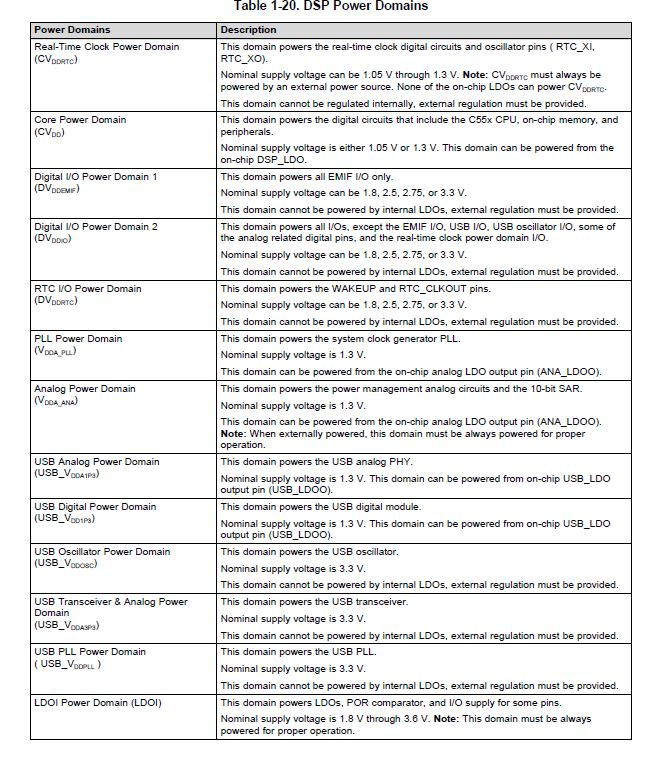
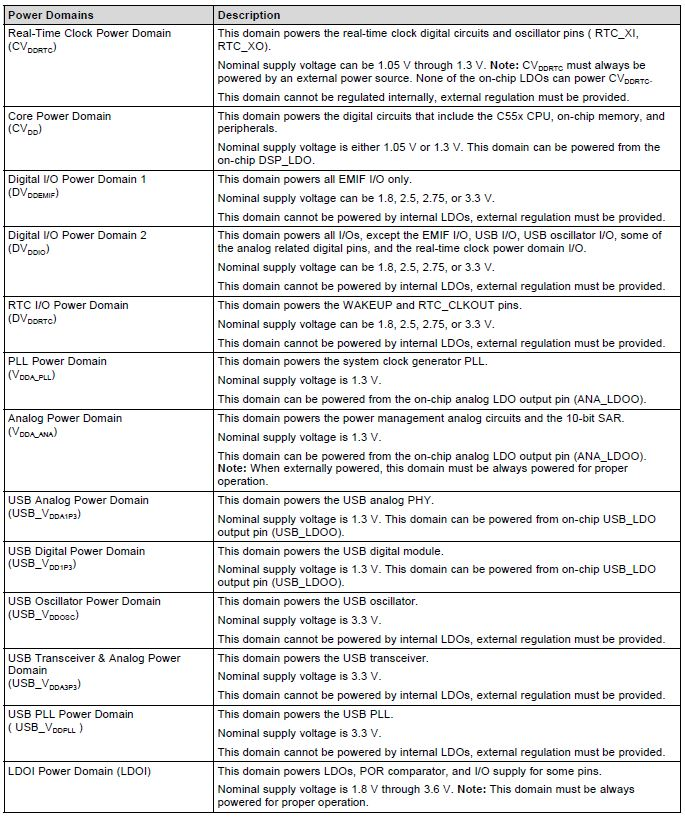
More citations

diff --git a/chapter5.tex b/chapter5.tex
@@ -8,7 +8,7 @@ Reducing power consumption only saves energy if the time required to accomplish 
 task does not increase too much.The chapter presents the sources of power dissipation and describes the important low-power methodologies and power optimization techniques available. Low-power design can be applied on various abstracted levels, such as system level, architectural level and technological level. This chapter could as well be utilized as a quick review on low power design. 
 
 \section{Sources of power consumption}\label{src_pwr}
-Most components are currently fabricated using CMOS technology. Main reason for this bias is that CMOS technology is cost efficient and inherently lower power than other technologies. So the sources of power consumption talked in this chapter is based on CMOS component model. There are a number of sources of power consumption in CMOS, which can be subdivided into \textit{static} and \textit{dynamic} power dissipation. The main difference between them is that dynamic power is frequency dependent, while static is not. Dynamic power dissipation is primarily caused by the switching of the CMOS devices (MOSFETs) when logic values are changed (known as \textit{capacitive power} or \textit{switching power}). The amount of power that is dissipated is directly related to the switching activity (which is the number of logic transitions per clock cycle in the entire circuit), the clock frequency, the supply voltage, and the capacitive load the circuit drives \cite{PowerAwareDesign}. Another source of dynamic power dissipation is \textit{short-circuit power}. CMOS is comprised of both PMOS and NMOS devices. During a logic transition, the PMOS and NMOS devices are simultaneously turned on for a very short period of time, allowing a short-circuit current to run from V\textsubscript{dd} to ground\cite{Low-powercmos,LowPowerDesign}. This behavior is inherent to CMOS switching.The more dominant component of dynamic power is capacitive power. This component is the result of charging and discharging parasitic capacitances in the circuit. Every time a capacitive node switches from ground to V\textsubscript{dd} an vice-versa energy is consumed. 
+Most components are currently fabricated using CMOS technology\cite{cypress,silicon}. Main reason for this bias is that CMOS technology is cost efficient and inherently lower power than other technologies. So the sources of power consumption talked in this chapter is based on CMOS component model. There are a number of sources of power consumption in CMOS, which can be subdivided into \textit{static} and \textit{dynamic} power dissipation. The main difference between them is that dynamic power is frequency dependent, while static is not. Dynamic power dissipation is primarily caused by the switching of the CMOS devices (MOSFETs) when logic values are changed (known as \textit{capacitive power} or \textit{switching power}). The amount of power that is dissipated is directly related to the switching activity (which is the number of logic transitions per clock cycle in the entire circuit), the clock frequency, the supply voltage, and the capacitive load the circuit drives \cite{PowerAwareDesign}. Another source of dynamic power dissipation is \textit{short-circuit power}. CMOS is comprised of both PMOS and NMOS devices. During a logic transition, the PMOS and NMOS devices are simultaneously turned on for a very short period of time, allowing a short-circuit current to run from V\textsubscript{dd} to ground\cite{Low-powercmos,LowPowerDesign}. This behavior is inherent to CMOS switching.The more dominant component of dynamic power is capacitive power. This component is the result of charging and discharging parasitic capacitances in the circuit. Every time a capacitive node switches from ground to V\textsubscript{dd} an vice-versa energy is consumed. 
 
 Static power, which is a constant factor and has nothing to do with the switching activity, is caused by \textit{leakage power}. In an ideal situation, a static CMOS circuit (i.e. one that does not switch) does not consume any power because there is no direct path from V\textsubscript{dd} to 
 ground. In real life there will always be leakage currents, since CMOS devices are not 
@@ -114,7 +114,7 @@ V\textsubscript{DD} in order to save power. Even though delay is increasing, the
  \section{Design flow}
  
  Design flow of any system constitutes of various level of abstraction. Abstraction reduces complexity  and allow efficient design and implementation of complex systems.The aspect of the system that needs to be optimized helps in designing the various levels of abstraction. When a system is designed with the emphasis on power optimization , then the design must embody optimization at all levels of the design flow. In general the support for energy management needs to be incorporated at the system level and the architectural level. An important aspect of the design flow is the relation and feedback between the levels. Paul J.M Havinga et. al, 
- have come up with three layers of abstraction: system, architecture and technology \cite{}. Figure \ref{fig:quote} describes the abstraction level and related examples for energy reduction.
+ have come up with three layers of abstraction: system, architecture and technology \cite{havinga,havinga2,havinga3}. Figure \ref{fig:quote} describes the abstraction level and related examples for energy reduction.
  \begin{table}
  	\centering
  	\begin{tabular}{|l|l|}
@@ -136,7 +136,7 @@ V\textsubscript{DD} in order to save power. Even though delay is increasing, the
  		\hline
  	\end{tabular}
  	\caption{Abstraction level and related example for energy reduction.}
- 	\label{table:ecg}
+ 	\label{table:abstraction}
  \end{table}
 
 
@@ -189,7 +189,7 @@ V\textsubscript{DD} in order to save power. Even though delay is increasing, the
  A sensor is a device that converts real world physical parameters into electrical signals that a computer can understand.  They are the most important part of the BlueBox system. As shown in table \ref{table:sub-system} BlueBox employs five different sensors. Most of which are performing active real time sensing. They also do have a processing capabilities embodied with them. They contribute to the significant amount of power consumed by the system.  
  The first, and perhaps most direct, approach of our low power consumption design targets the sensor itself. The following section describes the three simple techniques that were employed in BlueBox that enabled low power sensing.
  \subsection{Power Management of Sensor sub-system}
-   Most of the sensors designed for low power consumption have one or more lower power states such as a shutdown mode or an extremely low-power operating mode. In many instances, this types of sensor's operation is directly controlled by  the firmware designer in the end application. It is also important to note that there is always a cost associated with the low power modes. The cost could be reduced performance, increased latency, delayed boot-up etc. And transition of modes consumes power too. So it is the application semantics that decides the best modes of operation and how often transition needs to be triggered. 
+   Most of the sensors designed for low power consumption have one or more lower power states such as a shutdown mode or an extremely low-power operating mode \cite{}. In many instances, this types of sensor's operation is directly controlled by  the firmware designer in the end application. It is also important to note that there is always a cost associated with the low power modes. The cost could be reduced performance, increased latency, delayed boot-up etc. And transition of modes consumes power too. So it is the application semantics that decides the best modes of operation and how often transition needs to be triggered. 
  
  
  The body temperature sensor (MA100) is eventually a thermistor. The voltage drop across the thermistor is a value proportional to the body temperature. The simplified circuitry of MA100 can be seen in figure \ref{body_temp}.
@@ -237,7 +237,7 @@ system. This selection is based on the features required to satisfy the control 
 
 Active power consumption by a processor is the power consumed when the processor is running. As almost all controllers are based upon CMOS logic, power is consumed primarily during the switching of transistors. The other major factor which determines the run time of the system is the standby power consumption. Most applications can spend significant amount of time in standby mode. Standby current is the sum of leakage current, current consumed by power management circuits, clocking systems, power regulators, RTC, IOs, interrupt controllers, and so on. It varies from controller to controller, based upon the particular features and peripherals supported in standby mode.  
 The power consumed in standby mode is significantly very less than in active mode. So the basic idea is to put the processor into standby mode when ever it is possible and try to keep the processor idle as long as possible to reduce the power consumed by the processor. The following section discusses the techniques used in the BlueBox system to reduce the processor power consumption. 
-Timing analysis is the first step towards the understanding of the processor functionality in terms of processor utilization. The processor utilization 'U' is defined as the total amount of time spent idle by the processor. 
+Timing analysis is the first step towards the understanding of the processor functionality in terms of processor utilization \cite{sastra}. The processor utilization 'U' is defined as the total amount of time spent idle by the processor. 
 \[ U = 100\% - (\% T_{idle}) \hspace{20mm} (1)\]
 
 Idle time is the time during which processor does not do any useful work. Normally this is an infinite loop that spins the processor waiting for an event. The code composer studio IDE ,which is used for firmware development,  provides the timing analysis of the code execution in DSP. Once the average idle time is known, we can measure the active utilization when the system is under various states of loads using the equation 1. BlueBox employs Intelligent waiting, even reduction and intelligent peripheral shutdown techniques to reduce the power consumption of the DSP. The following sections explains each of the technique in detail. 
@@ -268,7 +268,7 @@ up the device; as outputs, they can be used to configure to external peripherals
 The DSP has separate power domains which provide power to different portions of the device. The separate power domains allows the firmware to select the optimal voltage to achieve the lowest power consumption at the best possible performance. There are 13 different power domains each of which powers a specific domain. The following table gives the brief gist of the power domains.
 \begin{figure}[h]
 	\centering
-	\includegraphics[scale = 0.5 ]{power_domain.JPG}
+	\includegraphics[scale = 1 ]{power_domain.JPG}
 	\caption{C5515 DSP power domains\label{power_domain}}
 \end{figure}
 Body temperature is measured once in a second. From figure \ref{body_temp} shows the simplified body temperature measurement circuitry. It can be understood that the ADC peripheral of the DSP will be used only once every second. So BlueBox firmware enables the Analog power domain that powers the ADC only during the measurement. The following table shows the active power domains during the different phases of the firmware operation .

diff --git a/chapter1.tex b/chapter1.tex
@@ -1,6 +1,6 @@
 \chapter{Introduction}
 \section{Motivation}
-Emergencies can happen at any time. From minor issues to severe trauma, It is essential that the response teams that come to help them are equipped with the necessary technology to save their lives. There is an increasing demand for Emergency medical services (EMS). To respond to this growing demand, the EMS communities require adaptable and sustainable systems. First Responders or paramedics, as they are generally called in United States, provide rapid assessments and treatment of the sick and injured prior to transporting them to a hospital for further evaluation. Considerable knowledge, skill, and judgment are required to provide quality ambulatory emergency medical services. High quality emergency medical services and paramedics are important part of any health care system.Emergency patients with life-threatening trauma or disease are treated by paramedics  at the scene and during transport. Paramedics often are first to arrive at the scene, and  are allowed to defibrillate, to intubate endotracheally, and to administer life-saving drugs (epinephrine endotracheally, glucose intravenously, etc.). They treat patients at the scene and during transport in the ambulance. Many studies of pre-hospital services place greater emphasis on human factors, efficiency and continuous refinement of standards of practice.EMS providers are expected to render effective life-saving evaluation, intervention, stabilization and treatment that are consistent with existing standards and codes. Paramedics must be properly trained and equipped with suitable equipment, tools and communication systems to ensure that the highest quality of care, safety and reliability are attained before, during and after a medical emergency event (see the references [8-17]).
+Emergencies can happen at any time. From minor issues to severe trauma, It is essential that the response teams that come to help them are equipped with the necessary technology to save their lives. There is an increasing demand for Emergency medical services (EMS). To respond to this growing demand, the EMS communities require adaptable and sustainable systems. First Responders or paramedics, as they are generally called in United States, provide rapid assessments and treatment of the sick and injured prior to transporting them to a hospital for further evaluation. Considerable knowledge, skill, and judgment are required to provide quality ambulatory emergency medical services. High quality emergency medical services and paramedics are important part of any health care system.Emergency patients with life-threatening trauma or disease are treated by paramedics  at the scene and during transport. Paramedics often are first to arrive at the scene, and  are allowed to defibrillate, to intubate endotracheally, and to administer life-saving drugs (epinephrine endotracheally, glucose intravenously, etc.). They treat patients at the scene and during transport in the ambulance. Many studies of pre-hospital services place greater emphasis on human factors, efficiency and continuous refinement of standards of practice.EMS providers are expected to render effective life-saving evaluation, intervention, stabilization and treatment that are consistent with existing standards and codes. Paramedics must be properly trained and equipped with suitable equipment, tools and communication systems to ensure that the highest quality of care, safety and reliability are attained before, during and after a medical emergency event \cite{EMS,EMS1,EMS2,EMS3}.
 
 These situation require responders to effectively care for patients with limited resources and medical infrastructure within the limited space inside the ambulance, often under intense time pressure. For years, emergency medical service providers conducted patient care by manually measuring vital signs, documenting assessments on paper, and communicating over handheld radios. The ability to automate these tasks could greatly relieve the workload for each responder, increase the quality and quantity of patient care, and more efficiently deliver patients to the hospital. 
 Steady advances in wireless networking, medical sensors, and interoperability software create exciting possibilities for improving the way we provide emergency care. BlueBox is a project that explores and showcases how these advances in technology can be employed to assist patients and responders in times of emergency. 
@@ -36,8 +36,6 @@ BlueBox  platform support recording of variety of data including Electrocardiogr
 
 
 -	Ability to record the paramedic’s comments about the condition of the patient and synchronize with the vitals.
-
-//TODO add references to bibiliography
 
 \section{Thesis Goals}
 The goal of the thesis is build low power firmware for BlueBox which is designed to be wearable,battery operated easy-to-use device . Wearable medical devices have strict size and weight constraints while having a functional and behavioural specifications that demands the system to have high performance and function for hours. Battery capacity is directly proportional to its size. Smaller the size and weight , lower the capacity of the battery\cite{}. Battery capacity is a huge bottleneck for these systems. So these systems requires an extensive power management strategies to be deployed in hardware and software level. This is a hardware-software cosynthesis problem.

diff --git a/chapter2.tex b/chapter2.tex
@@ -124,7 +124,7 @@ In general, the requirements associated with a wearable devices places severe re
 \hspace{10mm}Embedded wearable systems design has been a continuously developing research field. Its complexity actually lies on the fact that an engineer has to take many considerations into account, when designing the systems. There is no system with unlimited resource available, such that the system can perform extremely well without suffering from resource shortage. On the other hand, there is no system that does not follow the user requirements when it tries to accomplish its tasks. In the field of Embedded system designs, engineers are usually constrained by the trade-offs between resource availability and required performance.  When it comes to wearable systems, engineers has to take size and power into consideration.  Now the engineers are constrained by the trade-offs between resource availability, size, power and performance. This introduces lot of interesting challenges into the design. The characteristics and the potentials of a system are determined by the resources it has. system requirements are always to be fulfilled by the designers. These requirements are to be satisfied if the system is desired to function as it should. With a 
 limited amount of resources provided by the system, an engineer has to think carefully about how to use the existing resources in such a way that they can suffice the need to carry out the required tasks. 
 
-\hspace{10mm}In general wearable embedded systems design is a hardware-software codesign problem as the system optimization consist of scheduling and binding[12]. Scheduling has to be done to meet the deadline of each task that has to be accomplished by the system, while binding has to be done to meet the availability of resource on the system. In other words, scheduling is related to performance and binding is related to resource. For  battery operated devices power management becomes the important aspect of  functional requirement and software design and it heavily influences schedulability and binding. Functional requirements, including power management, and  the way it is planned to be accomplished with the software provides the necessary information about schedulability and binding for the design optimization. Thus requiring a hardware-software codesign. 
+\hspace{10mm}In general wearable embedded systems design is a hardware-software codesign problem as the system optimization consist of scheduling and binding \cite{sched_bind}. Scheduling has to be done to meet the deadline of each task that has to be accomplished by the system, while binding has to be done to meet the availability of resource on the system. In other words, scheduling is related to performance and binding is related to resource. For  battery operated devices power management becomes the important aspect of  functional requirement and software design and it heavily influences schedulability and binding. Functional requirements, including power management, and  the way it is planned to be accomplished with the software provides the necessary information about schedulability and binding for the design optimization. Thus requiring a hardware-software codesign. 
 
 \hspace{10mm}In a system, scheduling and binding parameters are determined to optimize the following objectives: 
 \begin{description}
@@ -140,7 +140,7 @@ limited amount of resources provided by the system, an engineer has to think car
 
 \hspace{10mm}As mentioned in the previous section BlueBox has an size and weight constraint which is considered during the design to optimize the resources of the system to fulfill the constraints. BlueBox system is required to run for a minimum of two hours on battery.  
 BlueBox is optimized to have the minimum required resources to acquire, process and store the large number of high frequency data sets, mentioned in the previous section, with the required performance.  
-Coming to battery selection. Battery capacity is directly proportional to its area and weight\cite{} .The battery consideration is primarily based on its size, weight and heat dissipation as BlueBox should be a medical grade wearable. So here the battery capacity is traded off to meet the size and medical guidelines.  
+Coming to battery selection. Battery capacity is directly proportional to its weight as lithium ion battery tend to have a fixed energy density .The battery consideration is primarily based on its size, weight and heat dissipation as BlueBox should be a medical grade wearable. So here the battery capacity is traded off to meet the size and medical guidelines.  
 
 The table \ref{table:power_rating} lists the major components and their power consumption. The best battery that fulfill the size constraint has capacity of 300 mAh @ 3.7 volts. Which is equivalent to 1110 mWh of energy. The power consumption of these mentioned components sums up to 895 mW. At this rate the system will deplete the battery in 75 minutes. 
 

diff --git a/chapter4.tex b/chapter4.tex
@@ -55,7 +55,7 @@ The firmware is designed for concurrent data acquisition using dedicated hardwar
  The following would provide insight and explain in detail the above mentioned mechanism with the context of audio signal acquisition .There are primarily two audio channels that are sampled at a very high frequency of 12 KHz. The audio signal acquisition and storage is the most intensive task of the entire system and also very power hungry task. Involving DSP to do the complete task would completely utilize the DSP's computational bandwidth allowing no space for DSP to do other useful work and also the overhead of doing this operation through DSP is very high.  TMS320C5515 includes 4 DMA controllers with four DMA channels each. It can move data among internal memory, external memory, and peripherals without intervention from the DSP and in the background of DSP operation. So DMA data transfer is used in audio signal collection and storing.  The following diagram shows the DMA in the DSP 
  \begin{figure}[h]
  	\centering
- 	\includegraphics[scale = 0.5 ]{DMA_overview.PNG}
+ 	\includegraphics[scale = 0.5 ]{DMA_overview.JPG}
  	\caption{Conceptual Block Diagram of DMA controller\label{DMA_Architecture}}
  \end{figure} 
  The DMA is configured to collect the audio signal from the I2S peripheral and move it to SD card.The I2S receive event triggers the DMA to collect the audio signal. When the DMA fills up the allocated buffer it interrupts the CPU and the DSP initiates the SD card write using  other DMA channels and DMA takes care of the further action. The system continues acquiring audio signals even while writing data into the SD card . This is done through using DMA in ping-pong mode. The following diagram shows the ping pong operation mode.
@@ -82,4 +82,5 @@ MATLAB plots the data and visualizes it in such a way that the user can relate a
 	\caption{Flow of data in import record\label{play_dataflow}}
 \end{figure}
 
-\\TODO MATLAB GUI screenshot
+************
+TODO MATLAB GUI screenshot

diff --git a/chapter3.tex b/chapter3.tex
@@ -15,7 +15,7 @@ TMS320C5515 is a fixed-point DSP is based on the TMS320C55x™ DSP generation CP
 
 \begin{figure}[h]
 	\centering
-	\includegraphics[scale = 0.75 ]{C5515 Architecture.PNG}
+	\includegraphics[scale = 0.75 ]{C5515_arch.JPG}
 	\caption{DSP Architecture\label{C5515 Architecture}}
 \end{figure} 
 \subsection{Clock frequency}The DSP has a low power software programmable Phase Locked Loop(PLL) clock generator that  supports 60-,75-,100-,120-MHz clock rate.  
